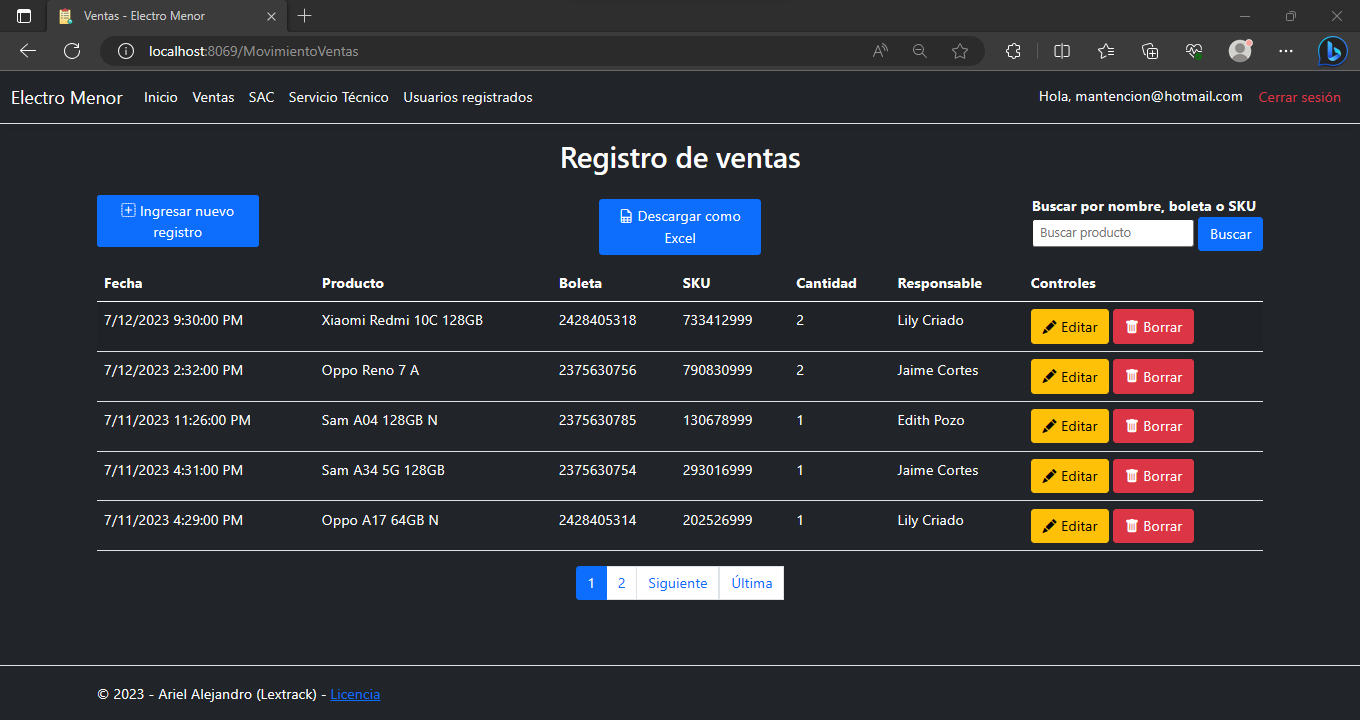
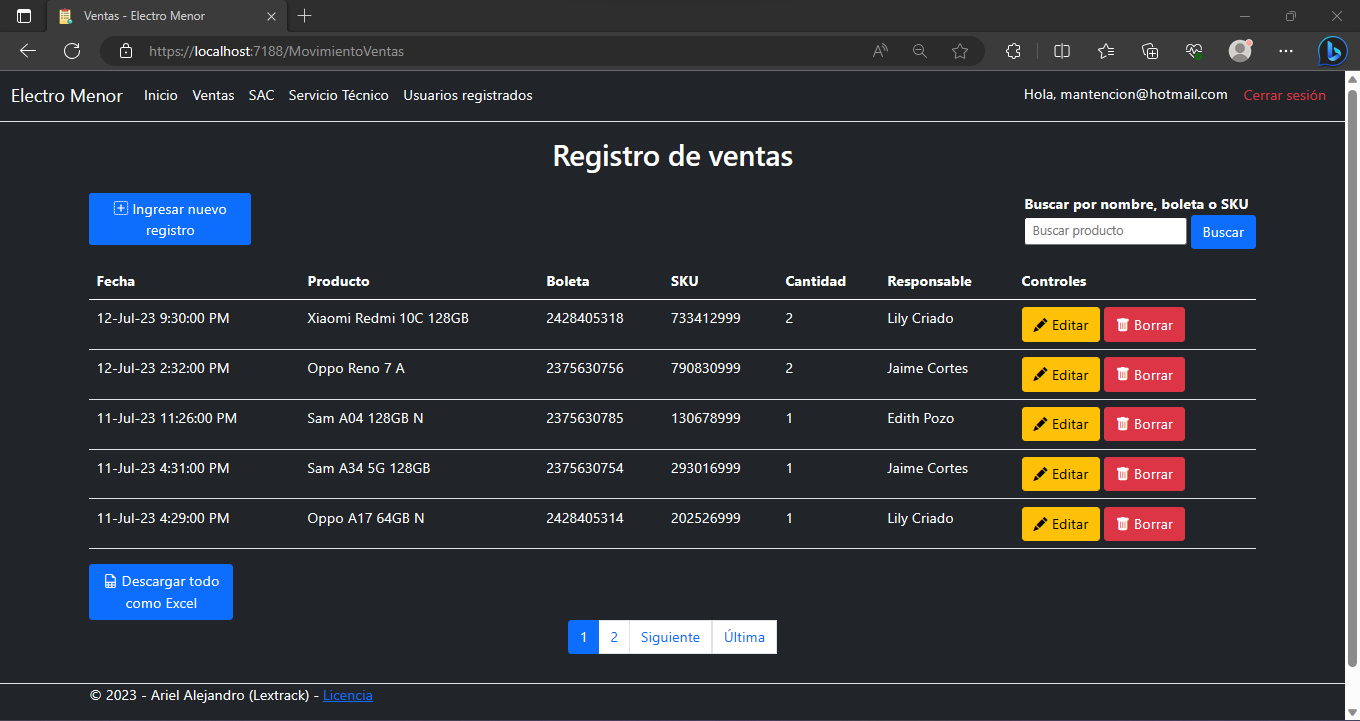
Minor fixes

diff --git a/MovimientosBodegaSensible/wwwroot/css/Custom.css b/MovimientosBodegaSensible/wwwroot/css/Custom.css
@@ -19,7 +19,7 @@ h2{
 }
 
 .boton-crear-normal {
-    width: 180px;
+    width: 160px;
     margin-left: 50%;
     transform: translateX(-50%);
     justify-content: center;
@@ -28,9 +28,7 @@ h2{
 }
 
 .boton-excel {
-    width: 180px;
-    margin-left: 50%;
-    margin-bottom: -7%;
-    transform: translateX(-50%);
-    justify-content: center;
+    width: 160px;
+    font-size: 16px;
+    text-align: center;
 }

diff --git a/MovimientosBodegaSensible/Controllers/UsuariosController.cs b/MovimientosBodegaSensible/Controllers/UsuariosController.cs
@@ -25,14 +25,14 @@ namespace MovimientosBodegaSensible.Controllers
         }
 
         [AllowAnonymous]
-        public IActionResult Registro()
+        public IActionResult Regs()
         {
             return View();
         }
 
         [HttpPost]
         [AllowAnonymous]
-        public async Task<IActionResult> Registro(RegistroViewModel modelo)
+        public async Task<IActionResult> Regs(RegistroViewModel modelo)
         {
             if (!ModelState.IsValid)
             {
@@ -135,7 +135,7 @@ namespace MovimientosBodegaSensible.Controllers
             var resultadoLoginExterno = await signInManager.ExternalLoginSignInAsync(info.LoginProvider,
                 info.ProviderKey, isPersistent: true, bypassTwoFactor: true);
 
-            // Ya la cuenta existe
+
             if (resultadoLoginExterno.Succeeded)
             {
                 return LocalRedirect(urlRetorno);
